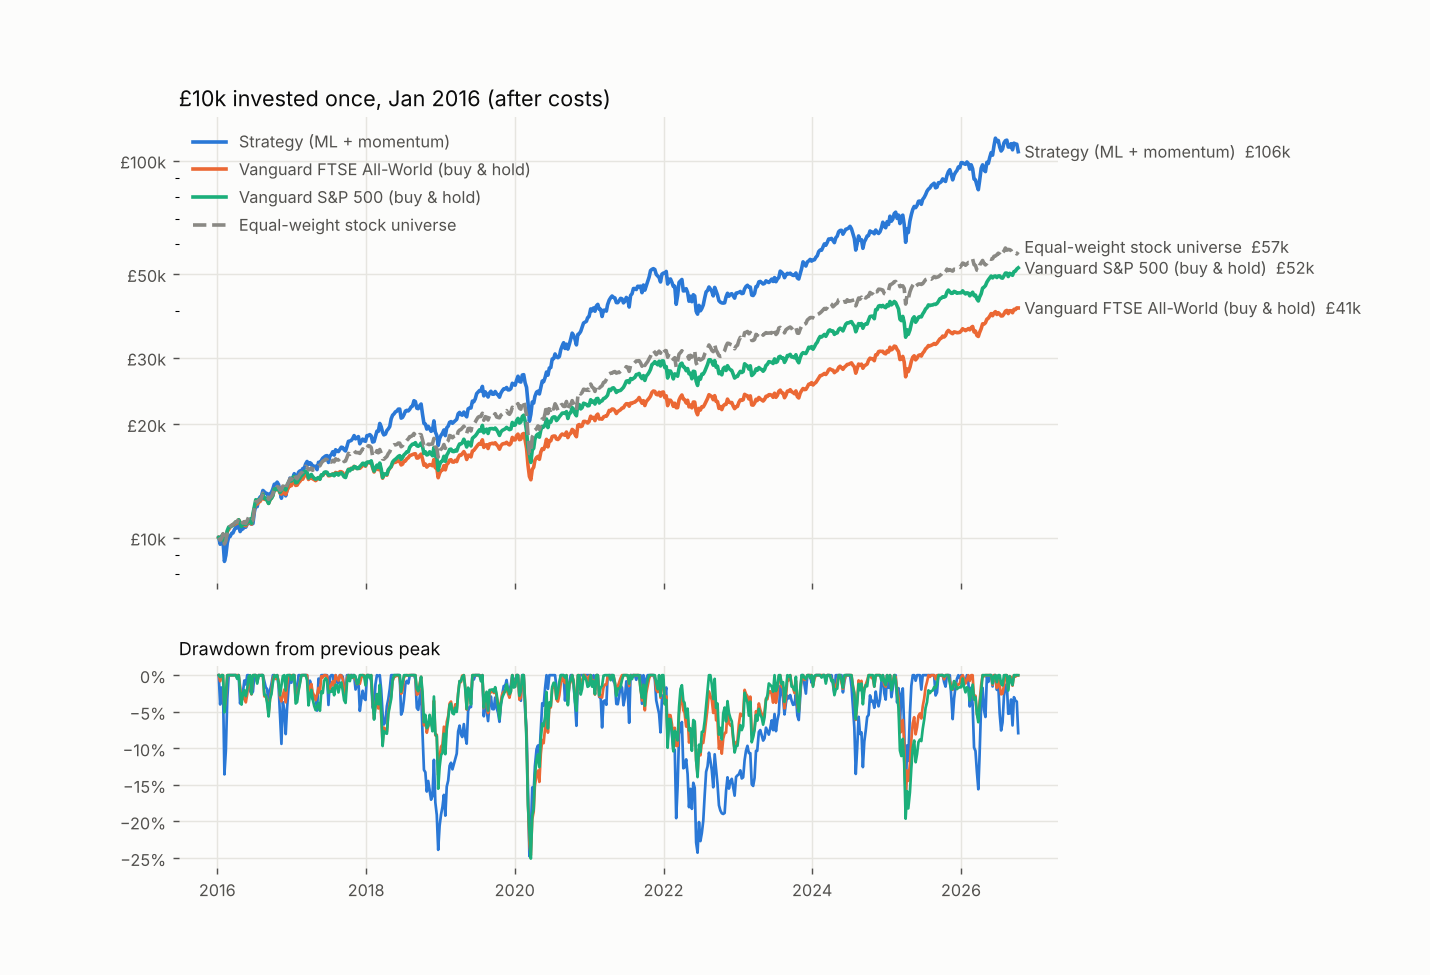
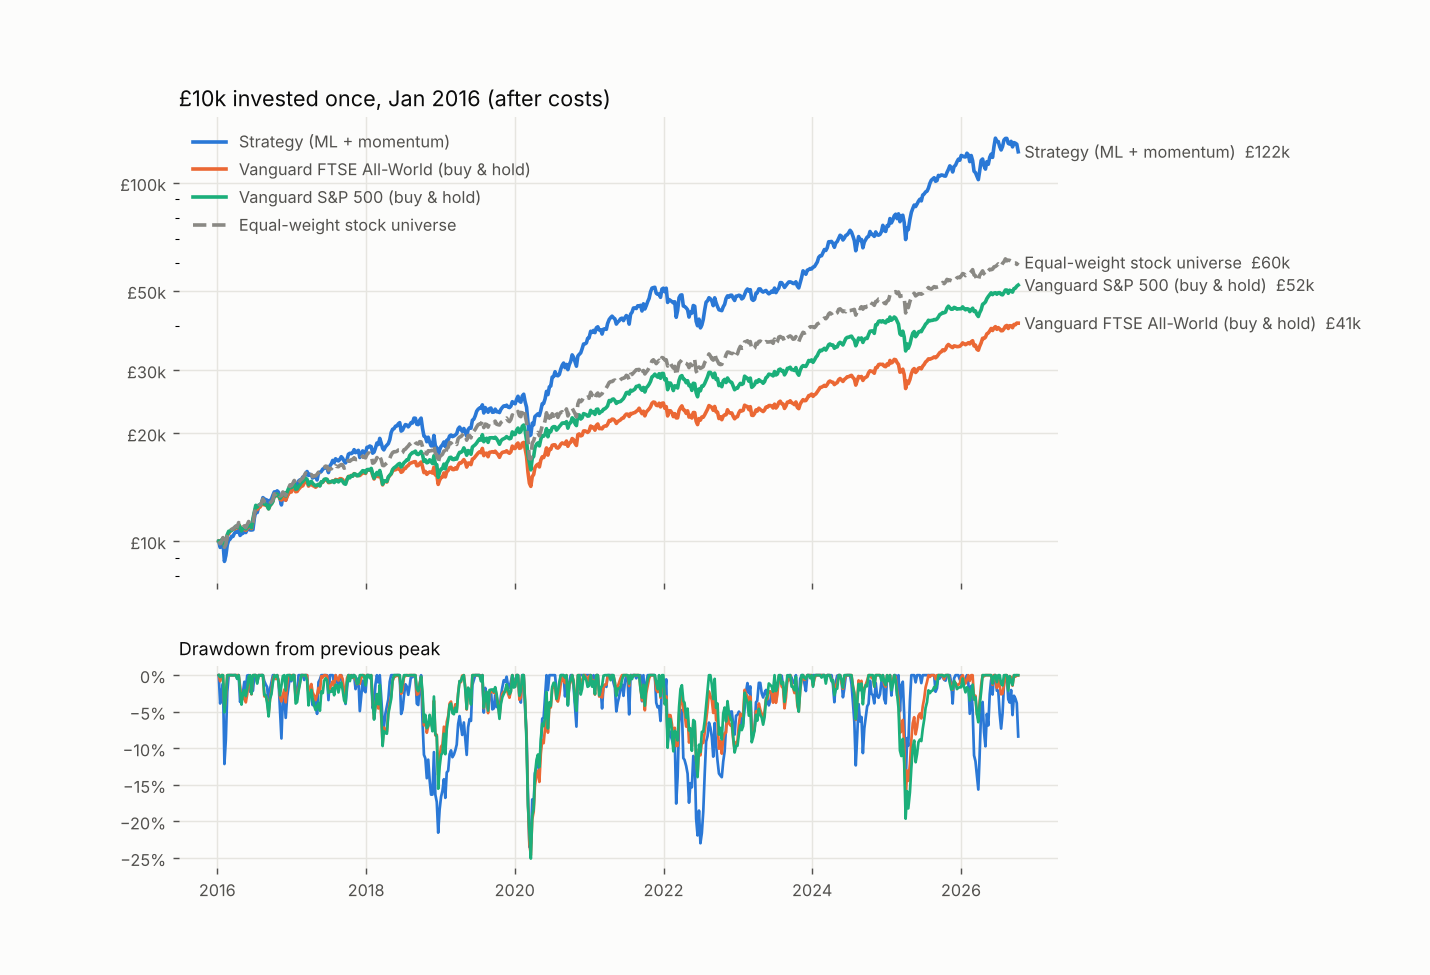
Plan: backtest re-run with corrected costs and London dividends
Strategy 26.1% CAGR / Sharpe 1.26 (was 24.4% / 1.18); ML only 23.9% / 1.17 (was 27.4% / 1.27).
Dividend tax 0.3% of the account a year; trading costs 0.9%. The flip between variants from a
UK-only data fix shows their differences are noise; the edge over the equal-weight universe is
still not statistically established (t 1.7).

Claude-Session: https://claude.ai/code/session_014oMbSvjq6m2KbbSfiWCRmW

diff --git a/PLAN.md b/PLAN.md
@@ -142,7 +142,8 @@ help?), with buying and holding real index funds (VWRL, VUSA), and with investin
 | FX | 0.15% on each trade in a non-base currency | ~0.002% (min ~$2 per conversion; hold USD/EUR balances) |
 | Fractional shares | Most US/EU stocks | US and some EU |
 | Universe | US, UK, major EU | Global, including Nordics, Canada, Japan and Hong Kong |
-| Taxes (both) | UK stamp duty 0.5%, France FTT 0.3%, Italy 0.1%, Spain 0.2% (on buys) | same |
+| Taxes on buys (both) | UK stamp duty 0.5%, France FTT 0.4%, Italy 0.2%, Spain 0.2%. They follow where the issuer is incorporated (Airbus and Experian are exempt) | same |
+| Dividend tax (ISA) | Withheld at source and not reclaimable in an ISA: US 15% (W-8BEN), Germany 26.4%, Switzerland 35%, others at statutory rates; UK none | Not an ISA: foreign tax can be credited |
 
 Rule of thumb: Trading 212 is cheaper when you trade mostly in your account's own currency.
 IBKR is cheaper when you trade a lot in other currencies. Run the backtest with each
@@ -199,6 +200,10 @@ statements and update `config.yaml`.
 Settings: GBP account, Trading 212 costs, 15 positions, weekly rebalance, signals from Jan 2016 to
 Oct 2026 (562 weeks, 245 stocks). All returns are in GBP, after costs.
 
+The headline results below were re-run on 18 Oct 2026 after fixing the cost model and London
+dividends (see "Effect of the cost and dividend fixes" at the end of this section). The later
+subsections (holdout, sensitivity, sector cap) and §14 used the earlier data.
+
 ![Backtest equity curve](docs/backtest_equity.png)
 
 ### What the first run showed
@@ -223,27 +228,27 @@ CAGR on the holdout, so the result does not depend on one lucky setting.
 
 | | Final value | CAGR | Volatility | Sharpe | Max drawdown |
 |---|---|---|---|---|---|
-| **Strategy (70% ML + 30% momentum)** | **£105,545** | **24.4%** | 20.2% | **1.18** | −24.7% |
-| ML only | £135,845 | 27.4% | 20.8% | 1.27 | −25.7% |
-| Momentum rule only | £40,989 | 14.0% | 15.9% | 0.90 | −23.2% |
+| **Strategy (70% ML + 30% momentum)** | **£122,275** | **26.1%** | 20.1% | **1.26** | −23.5% |
+| ML only | £100,864 | 23.9% | 20.1% | 1.17 | −26.6% |
+| Momentum rule only | £56,076 | 17.3% | 16.1% | 1.08 | −22.5% |
 | Buy & hold Vanguard S&P 500 (VUSA) | £51,916 | 16.5% | 15.3% | 1.08 | −25.1% |
 | Buy & hold Vanguard FTSE All-World (VWRL) | £40,638 | 13.9% | 13.9% | 1.01 | −24.6% |
-| Equal-weight stock universe | £57,192 | 17.5% | 14.5% | 1.19 | −27.3% |
+| Equal-weight stock universe | £59,992 | 18.1% | 14.5% | 1.22 | −27.2% |
 
 **Monthly investing: £500 at the start of every month, Jan 2016 – Oct 2026 (£65,000 deposited)**
 
 | Invested into | Final value | Money-weighted return (XIRR) |
 |---|---|---|
-| **Strategy** | **£234,329** | **22.4%** |
+| **Strategy** | **£273,752** | **25.0%** |
 | Vanguard S&P 500 | £155,767 | 15.4% |
 | Vanguard FTSE All-World | £135,089 | 13.0% |
 
 ![Monthly investing](docs/backtest_dca.png)
 
-Weekly turnover 5.2%, costs 0.8% of the account a year, about 20 stock swaps a year. The strategy beat
-VWRL in 9 of 11 calendar years (it lagged in 2022 and in 2026 to date) and the equal-weight universe in
-8 of 11. Profits came from 123 different stocks; the top 10 made 52% of the total (NVIDIA, UniCredit,
-Rolls-Royce, ASM International and AMD were the largest).
+Weekly turnover 5.7%. Trading costs take 0.9% of the account a year and dividend tax 0.3%; about 23
+stock swaps a year. The strategy beat VWRL in 10 of 11 calendar years (it lags in 2026 to date) and
+the equal-weight universe in 8 of 11. Profits came from 136 different stocks; the top 10 made 51% of
+the total (Rolls-Royce, UniCredit, Intesa Sanpaolo, Standard Chartered and BBVA were the largest).
 
 ### Tuning period vs holdout
 
@@ -297,6 +302,41 @@ improve. The cap is available but off by default. Today's universe includes the 
   with similar worst drawdowns.
 - **Next step:** paper trade for 8–12 weeks (Phase 2). Compare live weekly IC and turnover with the
   backtest before committing the 10k.
+
+### Effect of the cost and dividend fixes (18 Oct 2026)
+
+Three corrections, found while researching the next model (`docs/GRPO transformer portfolio design.md`):
+
+1. **London dividends were missing.** Yahoo applies dividends of London (pence-quoted) stocks about
+   100x too small, so its adjusted prices for UK stocks were close to price-only. UK stocks were
+   missing about 3.75 points a year of return (median), in both the model's labels and the P&L.
+   `data.total_return` now rebuilds the adjusted prices from Yahoo's raw and adjusted closes with
+   that fixed. Other markets were unaffected.
+2. **Taxes on buys were out of date.** French FTT is 0.4% (since April 2025) and Italian 0.2% (since
+   January 2026). Taxes now follow the issuer (Airbus and Experian are exempt), and US sells pay the
+   SEC fee.
+3. **Dividend tax.** Foreign tax withheld on dividends can't be reclaimed in an ISA. It is now
+   charged on holdings: about 0.3% of the account a year.
+
+| | Before | After |
+|---|---|---|
+| Strategy CAGR / Sharpe / max drawdown | 24.4% / 1.18 / −24.7% | 26.1% / 1.26 / −23.5% |
+| ML only CAGR / Sharpe | 27.4% / 1.27 | 23.9% / 1.17 |
+| Momentum only CAGR / Sharpe | 14.0% / 0.90 | 17.3% / 1.08 |
+| Equal-weight universe CAGR / Sharpe | 17.5% / 1.19 | 18.1% / 1.22 |
+| Strategy return over equal weight (calendar years) | +7.8 pts/yr, t 1.6 | +8.9 pts/yr, t 1.7 |
+| Weekly IC: ML / strategy | 0.0225 (t 2.86) / 0.0219 (t 2.59) | 0.0188 (t 2.47) / 0.0181 (t 2.17) |
+| Trading costs / dividend tax, % of account a year | 0.8% / not charged | 0.9% / 0.3% |
+
+What this shows:
+
+- **Variant rankings are noise at this size.** ML only went from 3 points ahead of the blend to 2
+  points behind, from a data fix that touched only UK stocks. Differences of a few points of CAGR
+  between variants are not evidence; this is why both are paper traded (§15).
+- **The edge is still not statistically established.** The strategy's Sharpe is barely above its own
+  equal-weight universe's (1.26 vs 1.22), its excess return has t ≈ 1.7, and the blend's IC (0.018)
+  is now just under the Phase 1 go rule's 0.02 (t 2.17 still passes t > 2). The survivorship bias in
+  the hand-picked universe (§4) also flatters every number here.
 
 ## 14. Phase 1b: testing the weights and other strategy variants (October 2026)
 
@@ -370,7 +410,9 @@ bias.
 | `ml_only_10` | ML only, 10 stocks | The Phase 1b rule's pick (§14), run alongside so live data can separate them |
 
 **How.** A scheduled cloud run every Saturday at 08:56 UK time runs `python -m wq paper`:
-1. It fills last week's orders at the Monday close, with the backtest's cost model.
+1. It fills last week's orders at the Monday close, with the backtest's cost model, and deducts the
+   dividend tax withheld on what was held. (From 24 Oct 2026, with corrected London dividends. Until
+   they roll off, the 4-week score average reuses three weeks scored on the earlier data.)
 2. It records each account's value next to buy & hold of VWRL and VUSA.
 3. It plans this week's orders.
 4. It commits everything under `paper/` to GitHub.
